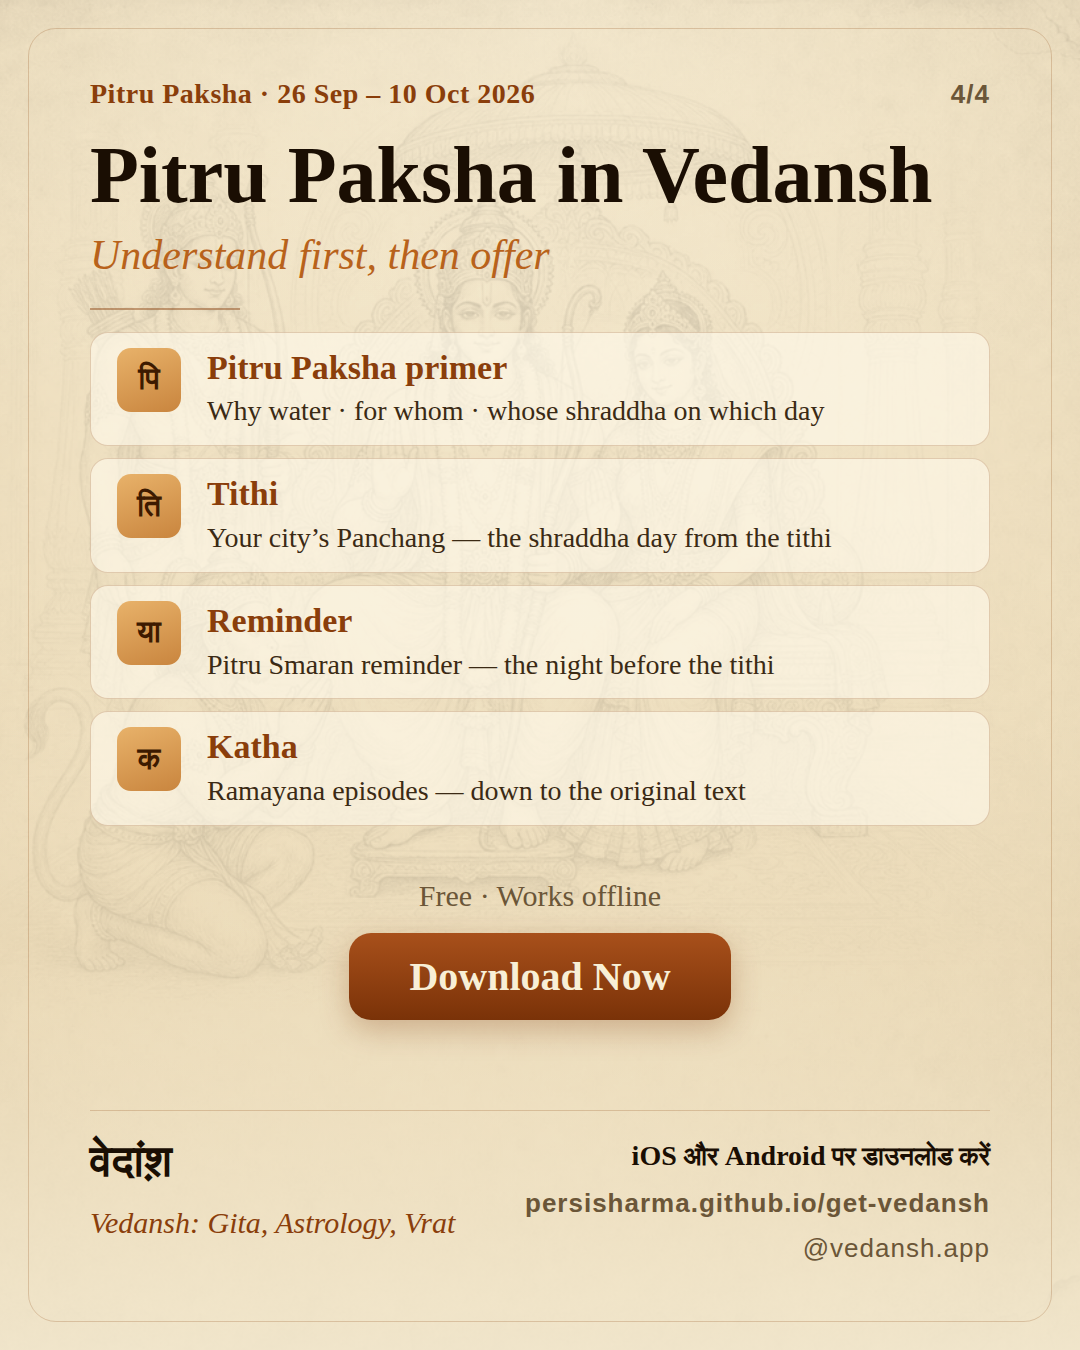
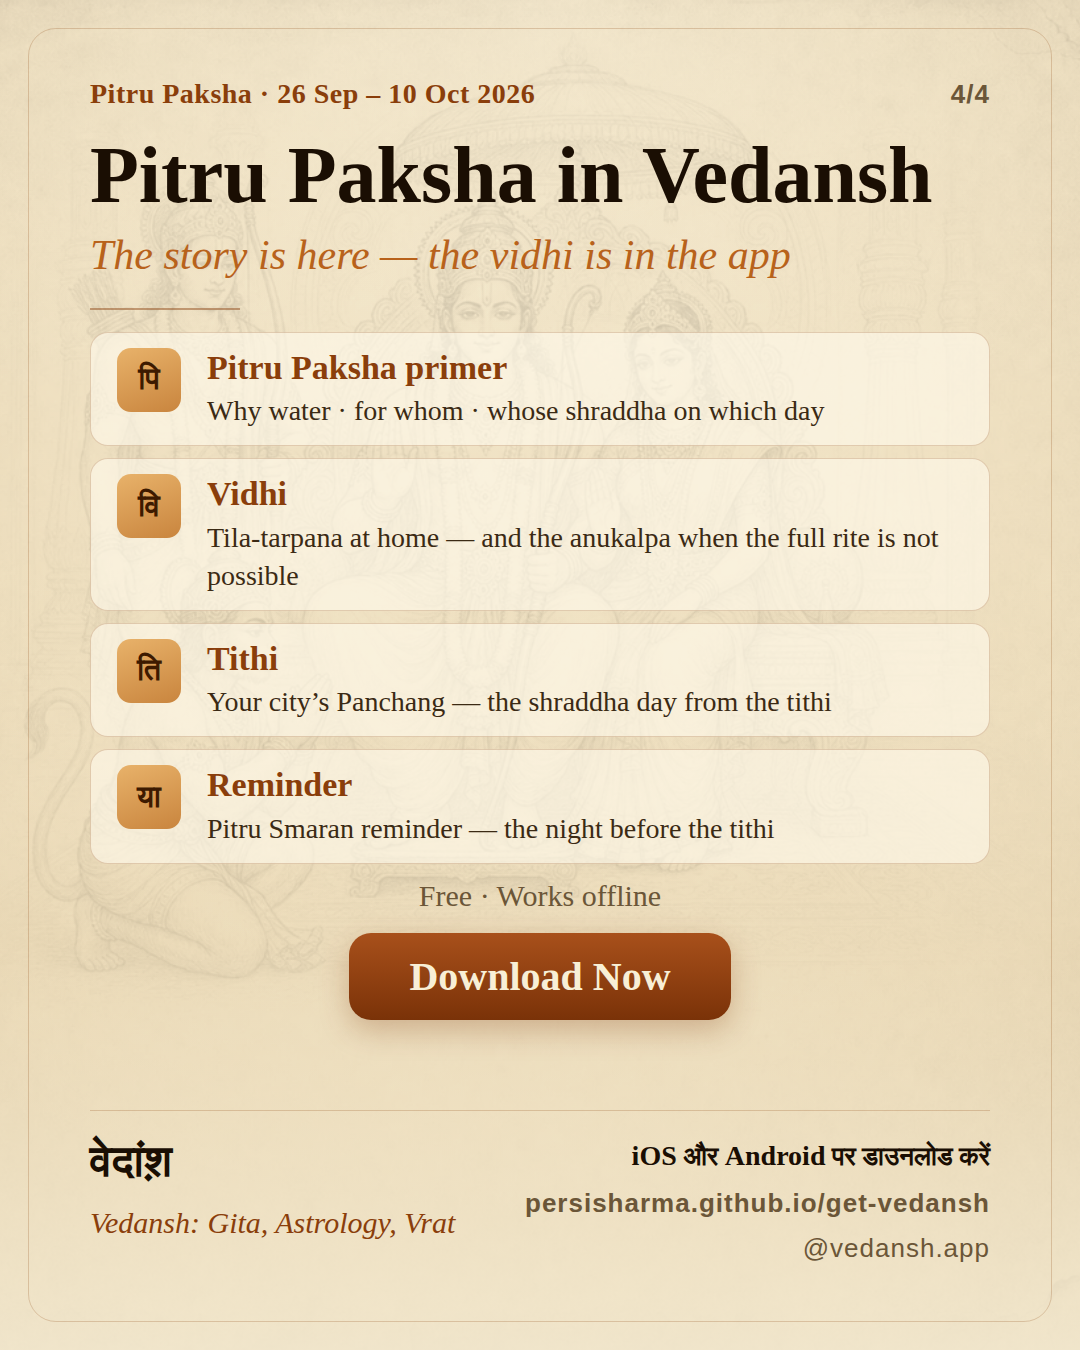
marketing(instagram): Pitru Paksha posts — per-story CTAs claim only shipped features
Mandakini CTA leads with the Chitrakoot katha the app actually ships
(kathas.ts: Rama's rite, Ayodhya Kanda). Falgu CTA no longer implies the
Gaya/Sita story is in the app — it sells the primer, tila-tarpana vidhi
and anukalpa, tithi and Pitru Smaran reminder instead. Falgu story card
now carries the full Sita pind-daan arc (kutapa hour, sand pinda, the
witnesses, Dasharatha accepting) and uses a new `dense` layout flag.

Claude-Session: https://claude.ai/code/session_01UWivEE5iQUqCiS2PaVJiY4

Changed region(s): [[0.0611, 0.3422, 0.9167, 0.6533], [0.0917, 0.1556, 0.7333, 0.2178]]

diff --git a/marketing/instagram/posts/pitru-falgu-2026.md b/marketing/instagram/posts/pitru-falgu-2026.md
@@ -6,11 +6,13 @@
 
 Render: `node ../make-carousel.mjs pitru-falgu-2026` (add `--lang hi|en` for one set).
 **Order:** 1 hook (what did Sita make the pinda from?) · 2 the Gaya belief — Sita's sand pinda,
-the witnesses, why the Falgu runs dry (labelled मान्यता / "not in the Ramayana") · 3 Gaya today
+Dasharatha's hand accepting it, the witnesses, why the Falgu runs dry (labelled मान्यता / "not in the Ramayana") · 3 Gaya today
 (Pitru Paksha Mela at Vishnupad: opens Sat 26 Sep Purnima Shraddha · closes Sat 10 Oct Sarva
 Pitru Amavasya) · 4 app CTA.
 **Post window:** any day while the mela is on; strongest 27 Sep – 3 Oct.
 Companion story: `pitru-mandakini-2026.md` (Chitrakoot — the scriptural bank).
+**App honesty:** the Gaya/Sita katha is NOT in the app (kathas.ts is Valmiki-only; Vishnupad has no
+detail page yet), so the CTA sells the primer, tila-tarpana vidhi, tithi and reminder — not this story.
 
 ## Caption — Hindi
 
@@ -32,7 +34,7 @@ Companion story: `pitru-mandakini-2026.md` (Chitrakoot — the scriptural bank).
 → स्वाइप कीजिए · सहेज लीजिए (save)
 जो गया जा रहे हैं, या जिनके घर में पिण्डदान की बात चल रही है — उन्हें भेज दीजिए 🙏
 
-पितृ पक्ष परिचय, तिथि से श्राद्ध का दिन, पितृ स्मरण reminder और रामायण की कथाएँ — Vedansh में, मुफ़्त, ऑफ़लाइन। लिंक बायो में।
+यह कथा यहाँ पढ़ ली — समझ और विधि Vedansh में: पितृ पक्ष परिचय, घर पर तिल-तर्पण की विधि, तिथि से श्राद्ध का दिन, पितृ स्मरण reminder। मुफ़्त, ऑफ़लाइन। लिंक बायो में।
 
 #पितृपक्ष #श्राद्ध #पिण्डदान #गया #फल्गु #विष्णुपद
 ```
@@ -56,7 +58,7 @@ And that mela is on right now — Pitru Paksha Mela, Vishnupad, on the Falgu, Ga
 
 Save it. Send it to whoever is going to Gaya, or talking about pind-daan at home 🙏
 
-Pitru Paksha primer, shraddha day from the tithi, Pitru Smaran reminder, Ramayana kathas — in Vedansh, free, offline. Link in bio.
+The story is here — the understanding and the vidhi are in Vedansh: Pitru Paksha primer, tila-tarpana at home, shraddha day from the tithi, Pitru Smaran reminder. Free, offline. Link in bio.
 
 #PitruPaksha #Shraddha #PindDaan #Gaya #Falgu #Vishnupad
 ```
@@ -66,4 +68,4 @@ Pitru Paksha primer, shraddha day from the tithi, Pitru Smaran reminder, Ramayan
 1. Hook — "पितृ पक्ष 2026। सीता ने पिण्ड किससे बनाया था? बालू से — ऐसा गया मानता है। पीछे विष्णु-नारायण का रेखाचित्र।" / "Pitru Paksha 2026. What did Sita make the pinda from? Sand — so Gaya believes. Faded Vishnu Narayana sketch behind."
 2. फल्गु की बालू — "गया की मान्यता: सीता का फल्गु की बालू का पिण्ड, फल्गु-गौ-केतकी-अक्षयवट साक्षी; रामायण में नहीं।" / "The sand of the Falgu: Gaya's belief of Sita's sand pinda and its witnesses; not in the Ramayana."
 3. गया, आज — "पितृपक्ष मेला 2026, विष्णुपद, गया: 26 सितम्बर पूर्णिमा श्राद्ध से 10 अक्टूबर सर्वपितृ अमावस्या तक।" / "Pitru Paksha Mela 2026, Vishnupad, Gaya: from Purnima Shraddha 26 Sep to Sarva Pitru Amavasya 10 Oct."
-4. CTA — "Vedansh ऐप: पितृ पक्ष परिचय, तिथि, पितृ स्मरण reminder, कथा। मुफ़्त, ऑफ़लाइन। persisharma.github.io/get-vedansh" / "Vedansh app: Pitru Paksha primer, tithi, Pitru Smaran reminder, katha. Free, offline. persisharma.github.io/get-vedansh"
+4. CTA — "Vedansh ऐप: पितृ पक्ष परिचय, तिल-तर्पण विधि, तिथि, पितृ स्मरण reminder। मुफ़्त, ऑफ़लाइन। persisharma.github.io/get-vedansh" / "Vedansh app: Pitru Paksha primer, tila-tarpana vidhi, tithi, Pitru Smaran reminder. Free, offline. persisharma.github.io/get-vedansh"

diff --git a/marketing/instagram/posts/pitru-mandakini-2026.md b/marketing/instagram/posts/pitru-mandakini-2026.md
@@ -31,7 +31,7 @@ Companion story: `pitru-falgu-2026.md` (Gaya). Post them on different days.
 → स्वाइप कीजिए · सहेज लीजिए (save)
 जो इस पक्ष में अपने पितरों को स्मरण करते हैं, उन्हें यह भेज दीजिए 🙏
 
-पितृ पक्ष परिचय, तिथि से श्राद्ध का दिन, पितृ स्मरण reminder और रामायण की कथाएँ — Vedansh में, मुफ़्त, ऑफ़लाइन। लिंक बायो में।
+चित्रकूट की यही कथा — अयोध्याकाण्ड के मूल श्लोकों तक — साथ में पितृ पक्ष परिचय, तिथि से श्राद्ध का दिन और पितृ स्मरण reminder: Vedansh में, मुफ़्त, ऑफ़लाइन। लिंक बायो में।
 
 #पितृपक्ष #श्राद्ध #तर्पण #चित्रकूट #मन्दाकिनी #रामायण
 ```
@@ -55,7 +55,7 @@ It is the feeling that counts, not the materials.
 
 Save it. Send it to whoever in your family remembers their ancestors this paksha 🙏
 
-Pitru Paksha primer, shraddha day from the tithi, Pitru Smaran reminder, Ramayana kathas — in Vedansh, free, offline. Link in bio.
+This very katha, down to the Ayodhya Kanda verses — with the Pitru Paksha primer, shraddha day from the tithi and the Pitru Smaran reminder: in Vedansh, free, offline. Link in bio.
 
 #PitruPaksha #Shraddha #Tarpan #Chitrakoot #Mandakini #Ramayana
 ```
